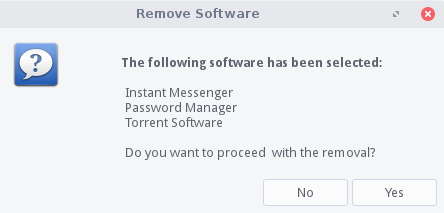
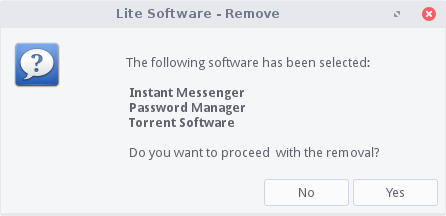
Updates
updated some images related to litesoftware
updated some images related to litetweaks
updated Lite Tweaks content

diff --git a/usr/share/doc/litemanual/software.html b/usr/share/doc/litemanual/software.html
@@ -978,20 +978,32 @@ i    {font-style: italic;}
 					<p><a href="#top">Top of page</a></p>
 
 					<h2><a name="tweaks">Lite Tweaks</a></h2>
-					<p><b>Lite Tweaks</b> is a tool that can be used periodically to clean up your system and free up more space on your hard drive. It
-					will do things like clean out various cached files, remove old dependency packages that are no longer needed, empty your trash and
-					remove old kernels if you have installed new ones.</p>
+					<p><b>Lite Tweaks</b> is a program to customize, optimize and clean up your system. Used periodically it can do things like clean out various cached files,
+					empty the trash, remove old kernels from the system if new ones are installed, remove old dependency packages no longer needed and more, 
+					freeing up additional space in your hard drive.</p>
 
-					<p>Lite Cleaner is in <b>Menu, System, Lite Tweaks</b>.</p>
+					<p>Lite Tweaks can be found under <b>Menu, System, Lite Tweaks</b>.</p>
 					<p><img src="images/software/litetweaks/tweaks1.png" /></p>
 
-					<p>Once opened, the <b>Lite Tweaks</b> window will show various categories of files that can be cleaned and will display in the <b>Description</b> column
-					how much space will be freed up by removing them. As an example, we'll use the cleaner to remove an old linux kernel. Select <b>Kernel Removal</b>, 
+					<p>Once opened, the <b>Lite Tweaks</b> window features multiple tasks, alphabetically organized by their <b>Name</b> by default. The <b>Description</b> column provides information related to the task(s) to be 
+					performed. Users can select either a single or multiple tasks for execution. They will be executed in sequential order until every selected task has been completed.</p>
+
+					<p>Simply select the tasks you want to complete and click on <b>Begin</b>.</p>
+					<p><img src="images/software/litetweaks/tweaks8.png" /></p>
+
+					<p>Some of the tasks in Lite Tweaks require administrative privileges for execution, hence you will be prompted for your password when needed.
+					<p><img src="images/software/litetweaks/tweaks2b.png" /></p>
+
+					<p>Lite Tweaks dynamically loads tasks relevant to your own system. For example, you may have multiple web browsers in which the web cache may be cleared as shown below.
+					<p><img src="images/software/litetweaks/browsers-cache-lite-tweak.png" /></p>
+
+					<p>The tasks to clear the web cache will appear in Lite Tweaks only for web browsers installed in your system and only if there is web cache to be cleared. After cleaning the browser's cache from those shown above,
+					Lite Tweaks no longer display the tasks related to web browsers cache until there is cache to be cleared once again.</p> 
+					<p><img src="images/software/litetweaks/browsers-cache-clean-lite-tweak.png" /></p>
+
+					<p>Another example, let's use Lite Tweaks kernel cleaner to remove an old linux kernel. Select <b>Kernel Removal</b>, 
 					then click on <b>Begin</b>.</p>
 					<p><img src="images/software/litetweaks/tweaks2.png" /></p>
-
-					<p>A confirmation box will pop-up. Click <b>Continue</b>.</p>
-					<p><img src="images/software/litetweaks/tweaks2a.png" /></p>
 
 					<p>Enter your password and click <b>OK</b>.</p>
 					<p><img src="images/software/litetweaks/tweaks2b.png" /></p>
@@ -1009,16 +1021,7 @@ i    {font-style: italic;}
 					<p>Upon completion, click <b>OK</b> to close the window.</p>
 					<p><img src="images/software/litetweaks/tweaks6.png" /></p>
 
-					<p>You can also select multiple tasks to perform in <b>Lite Tweaks</b>. Simply select the tasks you want to complete and click on <b>Begin</b>.</p>
-					<p><img src="images/software/litetweaks/tweaks8.png" /></p>
-
-					<p>Enter your password when asked and click <b>OK</b>.</p>
-					<p><img src="images/software/litetweaks/tweaks9.png" /></p>
-
-					<p>A confirmation box will pop-up. Click <b>Continue</b>.</p>
-					<p><img src="images/software/litetweaks/tweaks2a.png" /></p>
-
-					<p>When the selected tasks have completed, you'll be returned to the Lite Tweaks main window.</p>
+					<p>When selected tasks have completed, you'll be returned to the Lite Tweaks main window.</p>
 
 					<p><a href="#top">Top of page</a></p>
 
